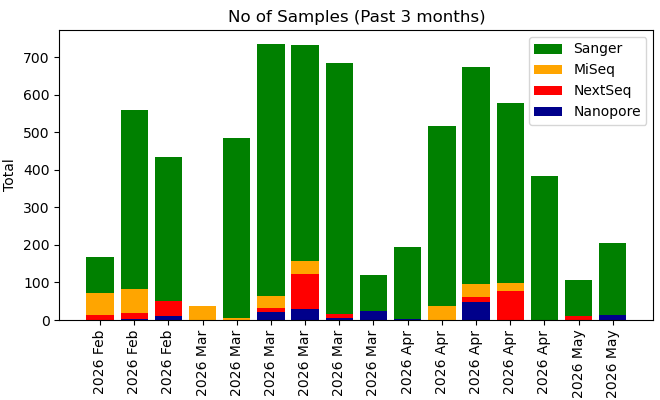
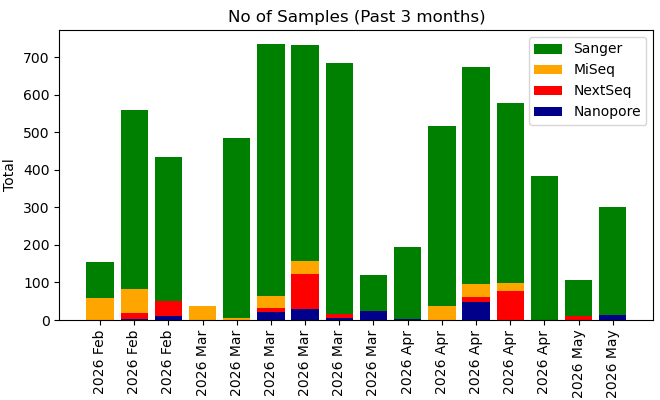
Your commit message here

diff --git a/krona/cgs.html b/krona/cgs.html
@@ -52,8 +52,8 @@ body {
   flex-direction: column;
 }
 </style>
-<H1>Genomics Facility Status: 07:00:24, 08/05/2026</H1>
-<marquee behavior="scroll" scrollamount="20" direction="left" bgcolor="lightgrey">CCTTCGTATGTTTCTCCTGCTTATCACCTTCTTGAAGGCTTCCCATTCATTCAGGAACCGCCTTCTGGTGATTTGCAAGAACGCGTACTTATTCGCCACCATGATTATGACCAGTGTTTCCAGTCCGTTCAGTTGTTGCAGTGGAATAGTCAGGTTAAATTTAATGTGACCGTTTATCGCAATCTGCCGACCACTCAGATCGGAAGAGCGGTTCAGCAGGAATGCCGAGACCGATCTCGTATGCCGTCTTC</marquee>
+<H1>Genomics Facility Status: 07:00:07, 09/05/2026</H1>
+<marquee behavior="scroll" scrollamount="20" direction="left" bgcolor="lightgrey">ACAAATGGTTTTTAGAGAACGAGAAGACGGTTACGCAGTTTTGCCGCAAGCTGGCTGCTGAACGCCCTCTTAAGGATATTCGCGATGAGTATAATTACCCCAAAAAGAAAGGTATTAAGGATGAGTGTTCAAGATTGCTGGAGGCCTCCACTATGAAATCGCGTAGAGGCTTTGCTATTCAGCGTTTGATGAATGCAATGCGACAGGCTCATGCTGATGGTTGGTTTATCGTTTTTGACACTCTCACGTTG</marquee>
 <TABLE BORDER=0><TR><TD><TABLE class="styled-table"><H3>GigaBases Sequenced</H3>
 <TR><TD><b>Platform</b></TD><TD><b>Week</b></TD><TD><b>Month</b></TD><TD><b>Year</b></TD><TD><b>Total</b></TD></TR><TR><TD>Illumina MiSeq</TD><TD>0.0</TD><TD>34.32</TD><TD>353.61</TD><TD>551.42</TD></TR><TR><TD>Illumina NextSeq</TD><TD>35.81</TD><TD>182.4</TD><TD>4511.14</TD><TD>6646.34</TD></TR><TR><TD>Nanopore PromethION</TD><TD>32.33</TD><TD>286.33</TD><TD>7475.41</TD><TD>12165.01</TD></TR><TR><TD>Sanger</TD><TD>0.0</TD><TD>0.0</TD><TD>0.02</TD><TD>0.04</TD></TR></TABLE></TD><TD><IMG SRC="fig1.png"><IMG SRC="fig2.png"></TD></TR><TR><TD><H3>No. Samples (No. Experiments)</H3>
-<TABLE class="styled-table"><TR><TD><b>Platform</b></TD><TD><b>Week</b></TD><TD><b>Month</b></TD><TD><b>Year</b></TD><TD><b>Total</b></TD></TR><TR><TD>Illumina MiSeq</TD><TD>0 (0)</TD><TD>91 (5)</TD><TD>1418 (70)</TD><TD>2430 (98)</TD></TR><TR><TD>Illumina NextSeq</TD><TD>11 (1)</TD><TD>101 (4)</TD><TD>1418 (66)</TD><TD>2186 (87)</TD></TR><TR><TD>Nanopore PromethION</TD><TD>13 (2)</TD><TD>63 (18)</TD><TD>596 (190)</TD><TD>1003 (345)</TD></TR><TR><TD>Sanger</TD><TD>384 (384)</TD><TD>2208 (2208)</TD><TD>21115 (21115)</TD><TD>44514 (44514)</TD></TR></TABLE></TD><TD><IMG SRC="fig4.png"></TD></TR></TABLE></HTML>
+<TABLE class="styled-table"><TR><TD><b>Platform</b></TD><TD><b>Week</b></TD><TD><b>Month</b></TD><TD><b>Year</b></TD><TD><b>Total</b></TD></TR><TR><TD>Illumina MiSeq</TD><TD>0 (0)</TD><TD>91 (5)</TD><TD>1418 (70)</TD><TD>2430 (98)</TD></TR><TR><TD>Illumina NextSeq</TD><TD>11 (1)</TD><TD>101 (4)</TD><TD>1418 (66)</TD><TD>2186 (87)</TD></TR><TR><TD>Nanopore PromethION</TD><TD>13 (2)</TD><TD>63 (18)</TD><TD>596 (190)</TD><TD>1003 (345)</TD></TR><TR><TD>Sanger</TD><TD>384 (384)</TD><TD>2304 (2304)</TD><TD>21115 (21115)</TD><TD>44610 (44610)</TD></TR></TABLE></TD><TD><IMG SRC="fig4.png"></TD></TR></TABLE></HTML>
